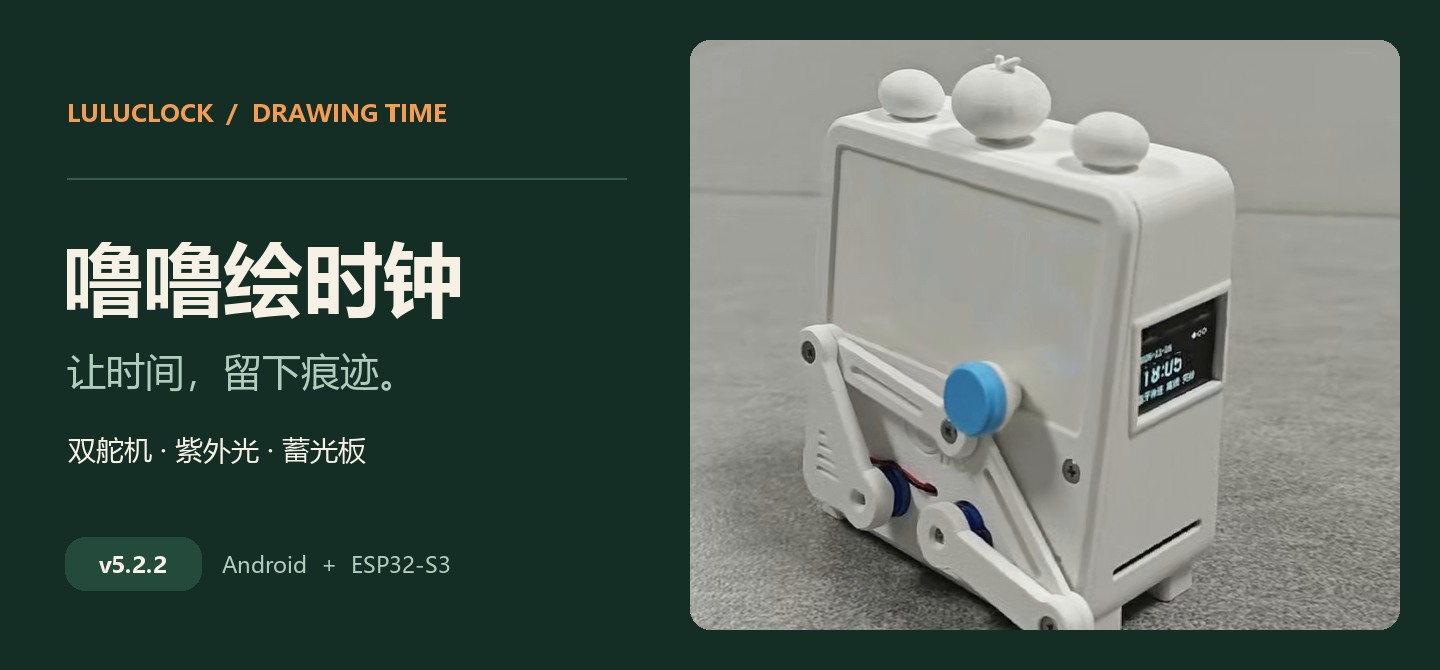
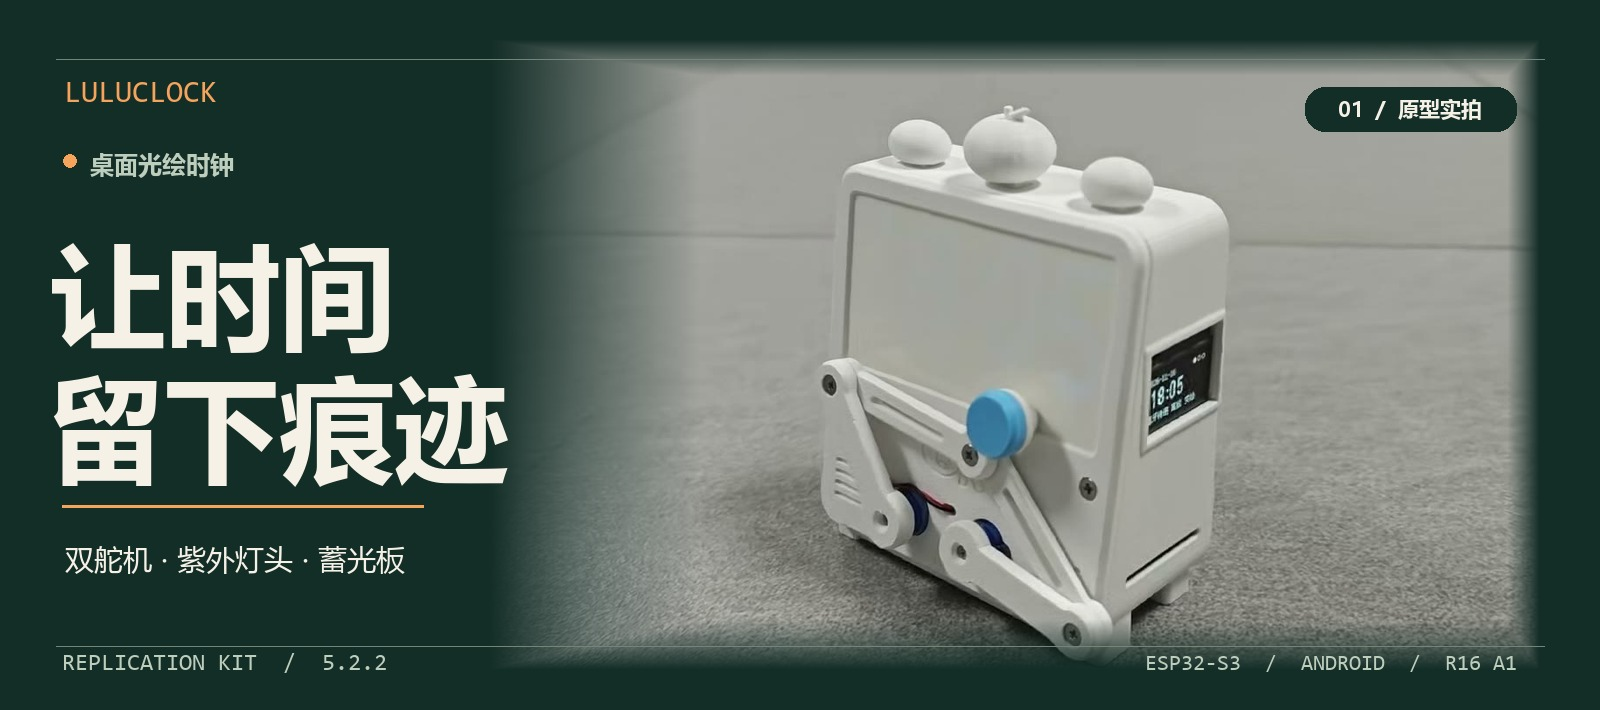
Redesign LuluClock 5.2.2 README and reproduction guide

diff --git a/docs/index.html b/docs/index.html
@@ -4,8 +4,8 @@
   <meta charset="utf-8">
   <meta name="viewport" content="width=device-width, initial-scale=1">
   <meta name="theme-color" content="#18342f">
-  <meta name="description" content="从备料、3D 打印外壳和机械臂，到第一次用紫外灯头画出 10 mm 方框。噜噜绘时钟 V2 复刻教程。">
-  <title>噜噜绘时钟 V2 · 复刻教程</title>
+  <meta name="description" content="从备料、3D 打印外壳和机械臂，到第一次用紫外灯头画出 10 mm 方框。噜噜绘时钟 5.2.2 复刻教程。">
+  <title>噜噜绘时钟 5.2.2 · 复刻教程</title>
   <link rel="stylesheet" href="guide.css">
   <script src="guide.js" defer></script>
 </head>
@@ -18,11 +18,11 @@
           <circle cx="12" cy="12" r="9"></circle>
           <path d="M12 7v5l3 2"></path>
         </svg>
-        <span>LuluClock V2</span>
+        <span>LuluClock</span>
       </a>
       <div class="top-links">
-        <a class="top-link source" href="https://github.com/yuhuang007/LuluClock_V2">源码</a>
-        <a class="top-link" href="https://github.com/yuhuang007/LuluClock_V2/releases/tag/v5.2.2">
+        <a class="top-link source" href="https://github.com/yuhuang007/LuluClock_V5.2.2" data-local="../README.md">源码</a>
+        <a class="top-link" href="https://github.com/yuhuang007/LuluClock_V5.2.2/releases/tag/v5.2.2">
           下载
           <svg width="15" height="15" viewBox="0 0 24 24" fill="none" stroke="currentColor" stroke-width="1.7" aria-hidden="true">
             <path d="M12 3v12m-4-4 4 4 4-4M5 15v5h14v-5"></path>
@@ -36,7 +36,7 @@
     <img class="hero-image" src="assets/cover.jpg" width="1280" height="720" alt="原型正面的光绘板、双舵机连杆、侧屏和顶部按键">
     <div class="wrap hero-content">
       <p class="kicker">复刻工作台 <span> / </span> 5.2.2</p>
-      <h1 id="title">噜噜绘时钟 V2</h1>
+      <h1 id="title">噜噜绘时钟</h1>
       <p class="hero-lede">打印外壳和机械臂，画出第一个光绘方框。</p>
       <a class="primary" href="#steps">
         开始复刻
@@ -79,7 +79,7 @@
           <span>2 × SG90</span>
           <span>Android 8+</span>
         </div>
-        <p>按 R16 装配修订 A1 打印外壳与机械臂，再接线、烧录并校准。成品照来自原型，下载包中的配合和行程要用自己买到的零件试装验收。</p>
+        <p>按 R16 装配修订 A1 打印六件外壳，配合四件按相同中心距重做的机械臂连杆，再接线、烧录和校准。成品照来自原型；打印件的配合和行程需用你手上的零件试装验收。</p>
       </div>
 
       <section class="step" id="parts">
@@ -90,7 +90,7 @@
           <div><dt>用光实绘</dt><dd>约 80 × 40 mm 蓄光板、与材料匹配的紫光或近紫外 LED、接受 3.3 V PWM 的限流驱动。先确认电流规格与兼容性。</dd></div>
           <div><dt>调试及选装</dt><dd>万用表、实尺或卡尺；外接 UART0 时准备 3.3 V 逻辑 USB-TTL。侧屏可选 0.96 英寸 SSD1306（128 × 64，I²C）；温湿度、光敏、蜂鸣器和灯带按需加。</dd></div>
         </dl>
-        <p class="file-links"><a href="https://github.com/yuhuang007/LuluClock_V2/blob/main/hardware/bom.csv" data-local="../hardware/bom.csv">物料清单 CSV</a></p>
+        <p class="file-links"><a href="https://github.com/yuhuang007/LuluClock_V5.2.2/blob/main/hardware/bom.csv" data-local="../hardware/bom.csv">物料清单 CSV</a></p>
         <label class="check"><input type="checkbox" id="check-parts" data-step="parts"> <span>已核对板型、供电、舵机和机构用料</span></label>
       </section>
 
@@ -104,16 +104,16 @@
           <li>前面板先不锁紧。留出端口、量测和调整空间，完成接线、灭灯空走与实绘后再合壳。合壳前检查线束不会被夹到，按键可以回弹。</li>
         </ol>
         <p class="file-links">
-          <a href="https://github.com/yuhuang007/LuluClock_V2/releases/download/v5.2.2/LuluClock-5.2.2-STL.zip">下载整套 STL</a>
-          <a href="https://github.com/yuhuang007/LuluClock_V2/blob/main/hardware/enclosure/README.md" data-local="../hardware/enclosure/README.md">打印清单、装配与 Blender 源文件</a>
+          <a href="https://github.com/yuhuang007/LuluClock_V5.2.2/releases/download/v5.2.2/LuluClock-5.2.2-STL.zip">下载整套 STL</a>
+          <a href="https://github.com/yuhuang007/LuluClock_V5.2.2/blob/main/hardware/enclosure/README.md" data-local="../hardware/enclosure/README.md">打印清单、装配与 Blender 源文件</a>
         </p>
         <details class="alternate">
           <summary>还没打印外壳？先用开放台架排查机构</summary>
           <p>按 100% 打印 A4 模板，量 50 mm 标尺确认比例，核对 25 mm 轴心距和杆件孔中心距。开放台架与整机使用相同的四件机械臂，适合先排查运动、灯头高度和线束。</p>
           <div class="file-links">
-            <a href="https://github.com/yuhuang007/LuluClock_V2/blob/main/hardware/bench-jig.svg" data-local="../hardware/bench-jig.svg">1:1 台架模板</a>
-            <a href="https://github.com/yuhuang007/LuluClock_V2/blob/main/hardware/bench/README.md" data-local="../hardware/bench/README.md">台架连杆</a>
-            <a href="https://github.com/yuhuang007/LuluClock_V2/blob/main/hardware/README.md" data-local="../hardware/README.md">几何与装臂细节</a>
+            <a href="https://github.com/yuhuang007/LuluClock_V5.2.2/blob/main/hardware/bench-jig.svg" data-local="../hardware/bench-jig.svg">1:1 台架模板</a>
+            <a href="https://github.com/yuhuang007/LuluClock_V5.2.2/blob/main/hardware/bench/README.md" data-local="../hardware/bench/README.md">台架连杆</a>
+            <a href="https://github.com/yuhuang007/LuluClock_V5.2.2/blob/main/hardware/README.md" data-local="../hardware/README.md">几何与装臂细节</a>
           </div>
         </details>
         <label class="check"><input type="checkbox" id="check-mechanics" data-step="mechanics"> <span>已试装打印件，并核对轴距、关节方向与线束空间</span></label>
@@ -136,7 +136,7 @@
         <div class="callout">
           <p><strong>先只给主控上电。</strong>不接舵机、灯头、灯带和电池，断电核对短路与极性。舵机从独立的 5 V 负载支路供电，各支路共地，避免多个电源同时向同一电源轨供电。GPIO6 / GPIO11 只接驱动输入，裸 LED 与灯带不要从 GPIO 取电。</p>
         </div>
-        <p class="file-links"><a href="https://github.com/yuhuang007/LuluClock_V2/blob/main/hardware/wiring.md" data-local="../hardware/wiring.md">完整接线与上电检查</a></p>
+        <p class="file-links"><a href="https://github.com/yuhuang007/LuluClock_V5.2.2/blob/main/hardware/wiring.md" data-local="../hardware/wiring.md">完整接线与上电检查</a></p>
         <label class="check"><input type="checkbox" id="check-wiring" data-step="wiring"> <span>已断电核线，首轮只接主控</span></label>
       </section>
 
@@ -149,7 +149,7 @@
           <li>先「验证」编译，再选对串口执行「上传」。使用外接 USB-TTL 时须为 3.3 V 逻辑、TX/RX 交叉、共地且 VCC 留空；板载与外接串口桥不要同时驱动 UART0。无法下载时按硬件文档核对 BOOT（GPIO0）和 EN。</li>
         </ol>
         <p><code>JianClock.ino.bin</code> 是可用于兼容设备 OTA 的应用镜像。公开版 APK 不内置固件；需要 OTA 时，在应用里手动选择本地编译的应用镜像。</p>
-        <p class="file-links"><a href="https://github.com/yuhuang007/LuluClock_V2/blob/main/firmware/README.md" data-local="../firmware/README.md">Arduino IDE、CLI 与镜像说明</a></p>
+        <p class="file-links"><a href="https://github.com/yuhuang007/LuluClock_V5.2.2/blob/main/firmware/README.md" data-local="../firmware/README.md">Arduino IDE、CLI 与镜像说明</a></p>
         <label class="check"><input type="checkbox" id="check-firmware" data-step="firmware"> <span>编译和串口上传完成，已确认主控能启动</span></label>
       </section>
 
@@ -165,9 +165,21 @@
           <img src="assets/app.jpg" alt="噜噜绘时钟的 5.2.2 应用界面预览，包含手机与平板布局" loading="lazy">
           <figcaption>应用界面预览，读数为演示数据。</figcaption>
         </figure>
+        <details class="app-motion">
+          <summary>看看 App 的液态玻璃、深浅主题和连接动画</summary>
+          <p>在支持的 WebView 上，手机底栏与平板侧栏会折射玻璃边缘的背景。点选时胶囊拉伸回弹，拖动时它随手指移动。点主题图标，深浅主题从点击处作圆形过渡。</p>
+          <figure class="landscape">
+            <img src="assets/glass-motion.gif" alt="液态玻璃导航胶囊在标签之间滑动，深浅主题从点击点展开" width="770" height="600" loading="lazy">
+            <figcaption>应用画面录自浏览器；设备状态为演示数据。</figcaption>
+          </figure>
+          <p>到「设置 → 外观与主题」，切到「完整动效」并点「预览连接」或「预览断开」，即可看笔绘时钟和橡皮擦动画，无需连接设备。</p>
+          <figure class="landscape">
+            <img src="assets/connection-motion.jpg" alt="应用内置预览：连接时用笔绘制，断开时用橡皮擦淡出" width="1280" height="566" loading="lazy">
+          </figure>
+        </details>
         <p class="file-links">
-          <a href="https://github.com/yuhuang007/LuluClock_V2/releases/tag/v5.2.2">下载 Android APK</a>
-          <a href="https://github.com/yuhuang007/LuluClock_V2/blob/main/android-app/README.md" data-local="../android-app/README.md">App 构建与连接说明</a>
+          <a href="https://github.com/yuhuang007/LuluClock_V5.2.2/releases/download/v5.2.2/LuluClock-5.2.2.apk">下载 Android APK</a>
+          <a href="https://github.com/yuhuang007/LuluClock_V5.2.2/blob/main/android-app/README.md" data-local="../android-app/README.md">App 构建与连接说明</a>
         </p>
         <label class="check"><input type="checkbox" id="check-calibrate" data-step="calibrate"> <span>已完成 A/B 装臂和空走，灯头、板面与线束无干涉</span></label>
       </section>
@@ -211,7 +223,7 @@
 
   <footer class="footer">
     <div class="wrap footer-inner">
-      <span>LuluClock V2 <span class="muted">/</span> 复刻教程 · 5.2.2</span>
+      <span>LuluClock <span class="muted">/</span> 复刻教程 · 5.2.2</span>
       <a href="#top">回到顶部 ↑</a>
     </div>
   </footer>

diff --git a/README.md b/README.md
@@ -1,77 +1,117 @@
 <div align="center">
 
-# 噜噜绘时钟 · LuluClock V2
+# 噜噜绘时钟 · LuluClock V5.2.2
 
-**让时间，留下痕迹。**
+**一台会用光画画的桌面时钟。**
 
-两只舵机控制一个紫外灯头，把时间、文字和手绘轨迹画在蓄光板上。
-从 R16 A1 整机打印到第一次光绘，模型、接线和源码都在这里。
+两只舵机带动灯头，在蓄光板上写下时间、汉字和手绘图案。<br>
+这里有 R16 A1 外壳、整套打印件、固件和 Android App，可以跟着教程从零复刻。
 
-**5.2.2 · ESP32-S3 N16R8 · Android 8+ · R16 装配修订 A1**
+<a href="https://github.com/yuhuang007/LuluClock_V5.2.2/releases/download/v5.2.2/LuluClock-Prototype-720p.mp4"><img src="docs/assets/banner.jpg" alt="原型实拍：白色噜噜绘时钟、顶部橘子键帽、侧面 OLED 与正面双舵机机械臂。点击下载作品视频。" width="100%"></a>
 
-[开始复刻](#从零复刻) · [网页版教程](https://yuhuang007.github.io/LuluClock_V2/) · [一键下载十件 STL](https://github.com/yuhuang007/LuluClock_V2/releases/download/v5.2.2/LuluClock-5.2.2-STL.zip) · [源码导航](#源码导航)
+<a href="https://yuhuang007.github.io/LuluClock_V5.2.2/"><img src="docs/assets/action-guide.png" alt="打开网页版复刻教程" width="30%"></a> <a href="https://github.com/yuhuang007/LuluClock_V5.2.2/releases/download/v5.2.2/LuluClock-5.2.2-STL.zip"><img src="docs/assets/action-stl.png" alt="下载整机十件 STL" width="30%"></a> <a href="https://github.com/yuhuang007/LuluClock_V5.2.2/releases/download/v5.2.2/LuluClock-5.2.2.apk"><img src="docs/assets/action-apk.png" alt="下载 Android APK" width="30%"></a>
 
-<img src="docs/assets/banner.jpg" alt="噜噜绘时钟实拍原型，正面是蓄光板和双舵机连杆，顶部三键，侧面 OLED" width="100%">
+[开始复刻](https://yuhuang007.github.io/LuluClock_V5.2.2/) · [下载 STL](https://github.com/yuhuang007/LuluClock_V5.2.2/releases/download/v5.2.2/LuluClock-5.2.2-STL.zip) · [下载 APK](https://github.com/yuhuang007/LuluClock_V5.2.2/releases/download/v5.2.2/LuluClock-5.2.2.apk) · [作品视频](https://github.com/yuhuang007/LuluClock_V5.2.2/releases/download/v5.2.2/LuluClock-Prototype-720p.mp4)
+
+**ESP32-S3 N16R8 · 双 SG90 · 可选 SSD1306 · Android 8+**
+
+[实拍](#01--实际画出来是什么样) · [App 动效](#02--app-的液态玻璃与动效) · [打印](#03--外壳和机械臂一次下齐) · [复刻](#04--从备料到第一笔) · [原理](#05--一笔怎么到达板面) · [源码](#06--工程地图)
 
 </div>
 
-## 从零复刻
-
-**整机需要打印 10 件：六件外壳零件、四件机械臂。** 外壳采用项目的 R16 装配修订 A1，提供可编辑 Blender 文件；直接用 STL 切片即可。没有打印机也可以用 [1:1 模板](hardware/bench-jig.svg) 先搭开放台架。
-
-| 步骤 | 做什么 | 到这一步能确认什么 |
-| --- | --- | --- |
-| 01 备料 | [物料清单 CSV](hardware/bom.csv)；准备 ESP32-S3 N16R8、双 SG90、底板、三键和限流电源 | 核对板型、供电、舵机和紧固件 |
-| 02 打印与试装 | [打印清单](hardware/enclosure/README.md) · [外壳 Blender](hardware/enclosure/LuluClock-R16-A1.blend) | 按毫米、100% 切片，核对舵机轴心距 **25.00 mm**，先试装别急着合壳 |
-| 03 接线 | [5.2.2 接线与上电](hardware/wiring.md) | 正面看左舵机 GPIO5、右舵机 GPIO4；GPIO6/11 只驱动外部电路 |
-| 04 烧录 | [Arduino IDE / CLI](firmware/README.md) | 空板用完整串口烧录；主控能启动、App 能找到设备 |
-| 05 连接与校准 | [安装 APK](https://github.com/yuhuang007/LuluClock_V2/releases/download/v5.2.2/LuluClock-5.2.2.apk) · [装臂与空走](hardware/README.md#3-装臂和校准) | 先断开灯头，检查 A/B 姿态、归位和碰撞 |
-| 06 实绘 | 创作 → 测试图形 → **10 × 10 mm 校验方框** → 发送 | 用尺测横纵尺寸，然后试文字与时间 |
-
-网页版有逐项勾选进度和常见问题：[在线打开](https://yuhuang007.github.io/LuluClock_V2/)；离线可在下载后的目录中打开 [`docs/index.html`](docs/index.html)。
-
-> 实拍为项目原型。六件外壳使用 R16 A1 交付网格；四件连杆为按同一运动几何重做的打印件，已校核数字尺寸与网格，和外壳的完整实体配合仍需试装。
-
-公开版 APK 使用独立签名。如果设备上已有不同签名的安装包，先按 [Android 说明](android-app/README.md) 处理，避免丢失本地收藏。
-
-## 实机效果
+## 01 · 实际画出来是什么样
 
 <p align="center">
-  <img src="docs/assets/drawing-time.gif" alt="原型机用机械臂移动灯头、在蓄光板上绘制时间的原速实拍" width="560">
+  <img src="docs/assets/drawing-time.gif" alt="原型机实时移动灯头，在蓄光板上画出时间" width="560">
 </p>
 
-**[原型演示视频（约 3 分 46 秒）](https://github.com/yuhuang007/LuluClock_V2/releases/download/v5.2.2/LuluClock-V2-Prototype-720p.mp4)** 展示真实绘时、平板发送「你好世界」和实体按键。手机与横屏平板共用一个 APK；应用还有手绘、收藏、倒计时与番茄钟。
+画线时灯头亮起，换笔时灭灯移动。完成后，线条会在板面短暂停留。它能按计划绘时，也能从 App 接收「你好世界」或随手画的图案。
+
+**[下载 3 分 46 秒作品视频](https://github.com/yuhuang007/LuluClock_V5.2.2/releases/download/v5.2.2/LuluClock-Prototype-720p.mp4)**，内含整机实拍、App 与实机联动、OLED 操作及带标注的原理演示。
+
+| 创作 | 时间与交互 | 自定义 |
+| --- | --- | --- |
+| 汉字按笔顺生成、自由手绘、尺寸预览、图案收藏 | 自动绘时、倒计时、番茄钟；机身侧屏显示时间、环境与任务 | 手机和平板布局、深浅主题、界面动画开关；OLED 亮度与休眠 |
+
+## 02 · App 的液态玻璃与动效
+
+手机底栏和平板侧栏以透明材质、边缘折射和滑动胶囊显示当前位置：手指移动时，胶囊跟随；松手切页时，拉伸并回弹。深浅主题则从点击点以圆形展开。
+
+<p align="center">
+  <img src="docs/assets/glass-motion.gif" alt="液态玻璃胶囊随点击或拖动滑动，右上角触发深浅主题圆形切换" width="720">
+</p>
+
+**连上的时候，用笔画出一台小钟；主动断开时，用橡皮擦把它收起来。** 应用内「设置 → 外观与主题 → 完整动效」可预览连接与断开，无需连接设备。动效也可以跟随系统或关闭。
 
 <details>
-<summary>查看 App 与 OLED 界面</summary>
+<summary><strong>展开：笔绘与擦除、手机与平板、侧面 OLED</strong></summary>
 
-![App 5.2.2 手机总览、倒计时和平板深色创作页；当前读数为演示数据](docs/assets/app.jpg)
+![连接时用笔画出时钟，断开时用橡皮擦收起时钟](docs/assets/connection-motion.jpg)
 
-![固件 OLED 界面示意：时间、环境、当前任务与自动绘时](docs/assets/oled.jpg)
+![同一 APK 的手机设备总览、倒计时与平板深色创作页](docs/assets/app.jpg)
 
-OLED 为 0.96 英寸 SSD1306（128 × 64）。设备空闲时长按中键 5 秒进入设置，松开后左键选项、右键改值、中键短按保存；松开后再长按中键 5 秒退出。
+![侧面 OLED 的时间页、环境页和任务页](docs/assets/oled.jpg)
+
+OLED 是 0.96 英寸 SSD1306，128 × 64。设备空闲时长按中键 5 秒进入设置，松开后左选、右改、中键短按保存；再次松开并长按中键 5 秒退出。
 
 </details>
 
-## 一笔是怎么画出来的
+<sub>本节 App 动图与截图由当前应用在浏览器中渲染，样例设备状态为模拟；折射及主题效果取决于 Android WebView 的支持情况。</sub>
 
-![从应用画布生成笔画，经 BLE 传到固件，再由运动规划控制舵机和灯头](docs/assets/signal-flow.jpg)
+## 03 · 外壳和机械臂一次下齐
 
-App 将手绘或汉字笔顺转换为毫米坐标。ESP32-S3 对轨迹做可达性检查和运动规划，输出两路舵机目标；落笔亮灯，换笔灭灯移动。蓄光板会短暂保留线条。装配精度、光斑和板面间隙决定实物结果，软件中的目标位置不是传感器实测值。
+[<img src="docs/assets/print-kit.jpg" alt="R16 A1 的十个实际打印网格：A1 主壳、R16 前面板、三颗键帽、USB 挡块及四根机械连杆" width="100%">](hardware/enclosure/README.md)
 
-## 源码导航
-
-| 目录 | 从这里开始 |
+| 下载 | 里面有什么 |
 | --- | --- |
-| [`hardware/`](hardware/) | 物料、十件 STL、R16 A1 可编辑 Blender、接线与校准 |
-| [`firmware/`](firmware/) | `JianClock.ino`、几何、运动规划、BLE、OLED、Arduino 配置 |
-| [`android-app/`](android-app/) | Java + WebView 应用、手动 OTA、可自签的构建脚本和 Node 回归 |
-| [`docs/`](docs/) | 无需联网依赖的网页教程、原型配图与界面示意 |
+| **[整机 STL 压缩包](https://github.com/yuhuang007/LuluClock_V5.2.2/releases/download/v5.2.2/LuluClock-5.2.2-STL.zip)** | **10 件**：主壳、前面板、三颗键帽、USB 挡块、四根连杆；附部件清单及 SHA-256 |
+| **[R16 A1 外壳 Blender 文件](hardware/enclosure/LuluClock-R16-A1.blend)** | 六个外壳零件的可编辑网格；机械臂使用随包 STL |
+| **[逐件 STL 与装配说明](hardware/enclosure/README.md)** | 打印方向、关键中心距、试装顺序和合壳前检查 |
+| **[A4 台架图](hardware/bench-jig.svg)** | 1:1 校核轴心距和孔位；没有打印机也可先用平板搭台架 |
 
-- **改硬件或轨迹**：[固定引脚与设置](firmware/JianClock/Config.h) · [几何求解](firmware/JianClock/Geometry.h) · [亮灯与暗移时序](firmware/JianClock/MotionExecutor.h)。
-- **改 App**：[Android 环境与构建](android-app/README.md) · [WebView 入口](android-app/assets/index.html)。自己编译默认输出未签名 APK，可用自己的本地开发密钥签名。
-- **验证与升级**：固件用 Arduino ESP32 **3.3.12**、U8g2 **2.36.19**；应用用 JDK 17、Android SDK 35。空板首次烧录走串口。公开版 APK 不内置固件，兼容设备可在 App 里手动选择本地编译的应用镜像做 OTA。
+外壳是 R16 装配修订 A1。四件臂按原运动中心距另行绘制，已核对尺寸及闭合网格；与外壳的实物配合仍需试装。打印用 **毫米、100%**；舵盘、螺丝、灯珠和蓄光板另备。
 
-## 来源与许可
+## 04 · 从备料到第一笔
 
-见 [来源与许可说明](THIRD_PARTY.md)。第三方汉字数据保留原许可与来源记录；原创代码和文档尚未指定统一许可证，公开可见不等于所有内容均按同一许可授权。
+**完整步骤见 [网页版教程](https://yuhuang007.github.io/LuluClock_V5.2.2/)**，可以边做边勾选。离线解压后双击 [`docs/index.html`](docs/index.html)。
+
+| 步骤 | 看哪份资料 | 完成标志 |
+| --- | --- | --- |
+| **01 备料** | [物料表](hardware/bom.csv) | ESP32-S3 N16R8、两只 SG90、5 V 限流供电和紧固件齐全 |
+| **02 打印与试装** | [R16 A1 外壳和 STL](hardware/enclosure/README.md) | 轴距 **25.00 mm**，舵盘防转固定，手动行程无卡滞 |
+| **03 分步接线** | [接线图、供电与上电顺序](hardware/wiring.md) | 正视左舵机 **GPIO5**、右舵机 **GPIO4**；灯头驱动暂不接入 |
+| **04 首次烧录** | [Arduino IDE / CLI](firmware/README.md) | 空板经串口刷入，App 找得到设备 |
+| **05 装臂与空走** | [校准步骤](hardware/README.md#3-装臂和校准) | A/B 姿态、归位、运转间隙和线束通过检查 |
+| **06 第一次实绘** | 创作 → 测试图形 → **10 × 10 mm 校验方框** | 用尺测横纵尺寸，再试时间和汉字 |
+
+<details>
+<summary><strong>展开 5.2.2 接线总览</strong></summary>
+
+[![ESP32-S3 的舵机、三键、OLED、灯驱动、传感器和 UART0 连接图](docs/assets/wiring.svg)](hardware/wiring.svg)
+
+GPIO6、GPIO11 是控制信号，分别接灯头限流驱动和灯带驱动。双 SG90 用合适的 5 V 负载支路，与主控共地。详情和分步检查见 [接线说明](hardware/wiring.md)。
+
+</details>
+
+## 05 · 一笔怎么到达板面
+
+![从 App 画布生成毫米轨迹，经 BLE 发给 ESP32-S3，运动规划控制舵机与灯头](docs/assets/signal-flow.jpg)
+
+1. **迹线生成**：App 把手绘或汉字笔顺换算成毫米坐标，经 BLE 分段发送。
+2. **运动求解**：ESP32-S3 检查可达范围，分别计算两个舵机的目标和运动时序。
+3. **实机成像**：连杆定位灯头，按笔画亮灭。固件控制的是开环目标，实际尺寸和亮度仍由机械校准与光学间隙决定。
+
+## 06 · 工程地图
+
+| 目录 | 主要内容 |
+| --- | --- |
+| [`hardware/`](hardware/) | R16 A1 外壳、十件 STL、17 项物料表、接线和校准 |
+| [`firmware/`](firmware/) | `JianClock.ino`、ESP32-S3 / BLE / OLED、运动规划 |
+| [`android-app/`](android-app/) | Java + WebView，手绘与汉字、液态玻璃、手动 OTA 和回归 |
+| [`docs/`](docs/) | 自包含网页版教程、实拍、动图和复刻图解 |
+
+**构建入口**：[ESP32-S3 固件](firmware/README.md)使用 Arduino ESP32 **3.3.12** 与 U8g2 **2.36.19**；[Android 源码](android-app/README.md)使用 JDK 17 与 Android SDK 35，默认编译未签名包。Release APK 用独立签名，不能覆盖同包名的不同签名版本。公开 APK 不内置固件，兼容设备可手动选取本地编译的应用镜像进行 OTA。
+
+**源码坐标**：[引脚配置](firmware/JianClock/Config.h) · [几何求解](firmware/JianClock/Geometry.h) · [运动规划](firmware/JianClock/MotionExecutor.h) · [App 界面](android-app/assets/index.html) · [玻璃和主题](android-app/assets/app418.js) · [连接动效](android-app/assets/connection-motion.js)
+
+**来源与许可**：见 [THIRD_PARTY.md](THIRD_PARTY.md)。汉字笔顺等第三方素材保留原许可；原创代码、设计和文档尚未指定统一授权。

diff --git a/THIRD_PARTY.md b/THIRD_PARTY.md
@@ -8,6 +8,6 @@
 | 固件几何与时间轨迹 | S3 固件沿用早期兼容重实现的参数与绘时坐标；[`Geometry.h`](firmware/JianClock/Geometry.h) 和 [`Strokes.h`](firmware/JianClock/Strokes.h) 保留来源标注。仓库不附早期原固件、反汇编材料或映射文件。 |
 | ESP32 Arduino、ESP-IDF 和 U8g2 | 依赖由用户安装，见 [固件说明](firmware/README.md)。[Arduino-ESP32 3.3.12](https://github.com/espressif/arduino-esp32/tree/3.3.12)、[ESP-IDF 5.5.5](https://github.com/espressif/esp-idf/tree/v5.5.5) 和 [U8g2 2.36.19](https://github.com/olikraus/u8g2/tree/2.36.19) 各自保留授权声明及组件条款。OLED 字库另见 [WenQuanYi Bitmap Song](https://github.com/olikraus/u8g2/wiki/fntgrpwqy) 和 [Logisoso](https://github.com/olikraus/u8g2/wiki/fntgrplogisoso)。发布包不含 ESP32 预编译固件。 |
 | 机械模型 | R16 装配修订 A1 的六件外壳、前面板与安装件为本项目指定发布版本，沿用早期尺寸和机械接口。公开 Blender 仅包含这六件最终网格；原始参考模型、隐藏历史对象和厂商参考图不随附。四件连杆与 A4 台架模板根据固件几何中心距另行绘制。 |
-| 演示 | 成品图、绘时动图和演示短片取自原型实拍；App 图为真实界面配演示状态，OLED 图为固件画面示意。 |
+| 演示 | 成品图、绘时动图取自原型实拍，作品视频含实拍与标注的合成说明；App 图、液态玻璃动图和连接分镜来自当前应用渲染配演示状态。OLED 图为固件画面示意。 |
 
 来源、可复现范围或用料不清楚时，可在仓库提交说明并附具体文件或步骤。请避免在公开问题中附带设备地址、Wi-Fi 密码、签名密钥或个人信息。

diff --git a/hardware/enclosure/README.md b/hardware/enclosure/README.md
@@ -1,6 +1,6 @@
 # R16 装配修订 A1 · 整机打印包
 
-[下载十件 STL 压缩包](https://github.com/yuhuang007/LuluClock_V2/releases/download/v5.2.2/LuluClock-5.2.2-STL.zip) · [逐件 STL](stl/) · [外壳 Blender](LuluClock-R16-A1.blend)
+[下载十件 STL 压缩包](https://github.com/yuhuang007/LuluClock_V5.2.2/releases/download/v5.2.2/LuluClock-5.2.2-STL.zip) · [逐件 STL](stl/) · [外壳 Blender](LuluClock-R16-A1.blend)
 
 采用项目 **R16 装配修订 A1**：A1 主壳加 R16 前面板，适配原方案的 0.96 英寸 OLED。Blender 文件保留该版六个外壳网格，平铺便于编辑；原参考和演示占位模型没有放入公开文件。机械臂直接从下面的 STL 打印。
 

diff --git a/android-app/README.md b/android-app/README.md
@@ -4,7 +4,7 @@
 
 ## 连接与首次绘制
 
-1. 安装 [Release 中的 APK](https://github.com/yuhuang007/LuluClock_V2/releases/tag/v5.2.2)。给设备上电，打开系统蓝牙；首次启动按系统提示允许扫描与连接。
+1. 安装 [Release 中的 APK](https://github.com/yuhuang007/LuluClock_V5.2.2/releases/tag/v5.2.2)。给设备上电，打开系统蓝牙；首次启动按系统提示允许扫描与连接。
 2. 在设备页连接噜噜绘时钟。检查显示的设备固件号，先同步时间，再执行绘时。
 3. 在创作页输入「你好世界」或手绘图案，预览位置及大小后发送。进度以设备和 OLED 的回传为准。
 
